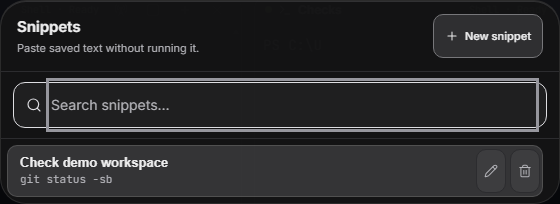
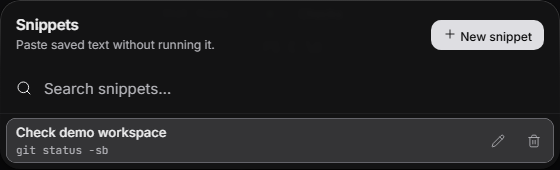
docs: refresh public screenshots for the Liquid Glass UI
Recapture all 15 README and guide screenshots from the current app. The
previous set still showed the pre-redesign UI.

Make the capture reliable and faithful for the new materials:
- Capture with Transparency at Reduced. Page captures cannot see Mica or
  vibrancy, so full transparency produced half-transparent PNGs that washed
  out on the light docs theme (docs/design/liquid-glass.md recommends
  Reduced for captures). Assert every capture is fully opaque.
- Chromium's backdrop-filter blur is not bit-stable at a glass surface's
  anti-aliased rounded corners, so dialog captures failed the
  byte-identical frame check in most runs. Allow differences of at most
  two levels only inside the corner squares; everything else must still
  match exactly.
- Pad the notification settings capture so its heading is not clipped.

diff --git a/tests/e2e/public-screenshots.spec.ts b/tests/e2e/public-screenshots.spec.ts
@@ -28,6 +28,9 @@ const screenshotNames = [
   'workspace-overview.png',
   'workspace-setup-sidebar.png',
 ] as const;
+// Page captures cannot see Mica or vibrancy, so full transparency would publish half-transparent PNGs.
+// Reduced keeps the in-app glass over an opaque window: the closest faithful picture (docs/design/liquid-glass.md).
+const screenshotTransparency = 'reduced';
 
 test.skip(process.platform !== 'win32', 'Public screenshots are captured from the Windows desktop app.');
 test.skip(process.env.JANET_UPDATE_PUBLIC_SCREENSHOTS !== '1', 'Set JANET_UPDATE_PUBLIC_SCREENSHOTS=1 to replace the shipped PNGs.');
@@ -124,22 +127,63 @@ async function warmTerminal(page: Page, terminal: Locator): Promise<void> {
   await page.keyboard.press('Control+L');
 }
 
-async function capture(name: typeof screenshotNames[number], target: Page | Locator): Promise<void> {
+/** Screenshot pixels covered by the target's rounded corners (0 for pages and square elements). */
+async function cornerRadius(target: Page | Locator): Promise<number> {
+  if (!('page' in target)) return 0;
+  return target.evaluate((element) => {
+    const style = getComputedStyle(element);
+    const radii = [style.borderTopLeftRadius, style.borderTopRightRadius, style.borderBottomLeftRadius, style.borderBottomRightRadius];
+    return Math.ceil(Math.max(...radii.map((radius) => parseFloat(radius) || 0)) * devicePixelRatio);
+  });
+}
+
+/**
+ * Frames must match exactly, except that Chromium's backdrop-filter blur is not bit-stable where a glass
+ * surface's anti-aliased rounded corners meet the scrim: those pixels flicker by one or two levels between
+ * otherwise identical frames. Allow only that, and only inside the corner squares.
+ */
+async function framesMatch(previous: Buffer, current: Buffer, radius: number): Promise<boolean> {
+  if (previous.equals(current)) return true;
+  if (radius === 0) return false;
+  const [a, b] = await Promise.all([previous, current].map((frame) => sharp(frame).ensureAlpha().raw().toBuffer({ resolveWithObject: true })));
+  const { width, height } = a.info;
+  if (width !== b.info.width || height !== b.info.height) return false;
+  for (let offset = 0; offset < a.data.length; offset += 1) {
+    if (a.data[offset] === b.data[offset]) continue;
+    const pixel = Math.floor(offset / 4);
+    const x = pixel % width;
+    const y = Math.floor(pixel / width);
+    const inCorner = (x < radius || x >= width - radius) && (y < radius || y >= height - radius);
+    if (!inCorner || Math.abs(a.data[offset] - b.data[offset]) > 2) return false;
+  }
+  return true;
+}
+
+/** `padding` widens a locator capture for content that overflows its box, such as a line-height: 1 heading. */
+async function capture(name: typeof screenshotNames[number], target: Page | Locator, padding = 0): Promise<void> {
   const options = {
     animations: 'disabled',
     caret: 'hide',
   } as const;
+  const radius = padding ? 0 : await cornerRadius(target);
+  const box = padding && 'page' in target ? await target.boundingBox() : null;
+  if (padding && !box) throw new Error(`${name} needs a visible locator to pad`);
+  const shoot = () => box && 'page' in target
+    ? target.page().screenshot({ ...options, clip: { x: box.x - padding, y: box.y - padding, width: box.width + padding * 2, height: box.height + padding * 2 } })
+    : target.screenshot(options);
   let previous: Buffer | undefined;
   let bytes: Buffer | undefined;
   for (let attempt = 0; attempt < 5; attempt += 1) {
-    const current = await sharp(await target.screenshot(options)).png({ compressionLevel: 9, adaptiveFiltering: false }).toBuffer();
-    if (previous?.equals(current)) {
+    const current = await sharp(await shoot()).png({ compressionLevel: 9, adaptiveFiltering: false }).toBuffer();
+    if (previous && await framesMatch(previous, current, radius)) {
       bytes = current;
       break;
     }
     previous = current;
   }
-  if (!bytes) throw new Error(`${name} did not produce two consecutive byte-identical frames`);
+  if (!bytes) throw new Error(`${name} did not produce two consecutive matching frames`);
+  // Translucent pixels would show the docs page (white in the light theme) through the app chrome.
+  expect((await sharp(bytes).stats()).isOpaque, `${name} must be fully opaque`).toBe(true);
   fs.mkdirSync(docsScreenshots, { recursive: true });
   for (const directory of [screenshots, docsScreenshots]) {
     fs.writeFileSync(path.join(directory, name), bytes);
@@ -151,6 +195,7 @@ async function capture(name: typeof screenshotNames[number], target: Page | Loca
 function writeSettings(userData: string): void {
   fs.writeFileSync(path.join(userData, 'settings.json'), JSON.stringify({ mainDirectory: userData,
     theme: 'one-dark',
+    transparency: screenshotTransparency,
     fontSize: 14,
     sidebarSide: 'right',
     keybindings: {},
@@ -205,6 +250,7 @@ test('recaptures the shipped public screenshot set from the real app', async () 
   try {
     createProjectFixture();
     userData = fs.mkdtempSync(path.join(path.dirname(fixturePath), 'JaneT-Public-Screenshot-Profile-'));
+    fs.writeFileSync(path.join(userData, 'settings.json'), JSON.stringify({ transparency: screenshotTransparency }), 'utf8');
     app = await electron.launch({
       args: ['.'],
       cwd: root,
@@ -349,7 +395,7 @@ test('recaptures the shipped public screenshot set from the real app', async () 
     const notificationSettings = page.locator('.notification-settings');
     await expect(notificationSettings.getByRole('checkbox')).toBeChecked();
     await expect(notificationSettings).toContainText('Commands must run at least 10 seconds.');
-    await capture('notification-settings.png', notificationSettings);
+    await capture('notification-settings.png', notificationSettings, 8);
     await page.getByRole('button', { name: 'Hide settings' }).click();
 
     await page.getByRole('button', { name: 'New workspace' }).click();

diff --git a/docs/site/guide/settings.md b/docs/site/guide/settings.md
@@ -7,9 +7,9 @@ description: Change JaneT's appearance, transparency, workspace tools position, 
 
 Select the gear-shaped **Settings** button in the title bar. Settings is grouped into **Appearance**, **Layout**, **Notifications**, and **Advanced**. JaneT saves changes as you make them.
 
-![JaneT Settings panel with theme, text size, position, notifications, diagnostics, and shortcuts](/screenshots/settings-overview.png)
+![JaneT Settings panel with theme, transparency, text size, position, notifications, diagnostics, and shortcuts](/screenshots/settings-overview.png)
 
-*The Settings panel groups appearance and behavior controls.*
+*The Settings panel groups appearance and behavior controls. Shown with Transparency set to Reduced; the default is System.*
 
 ## Change appearance
 
